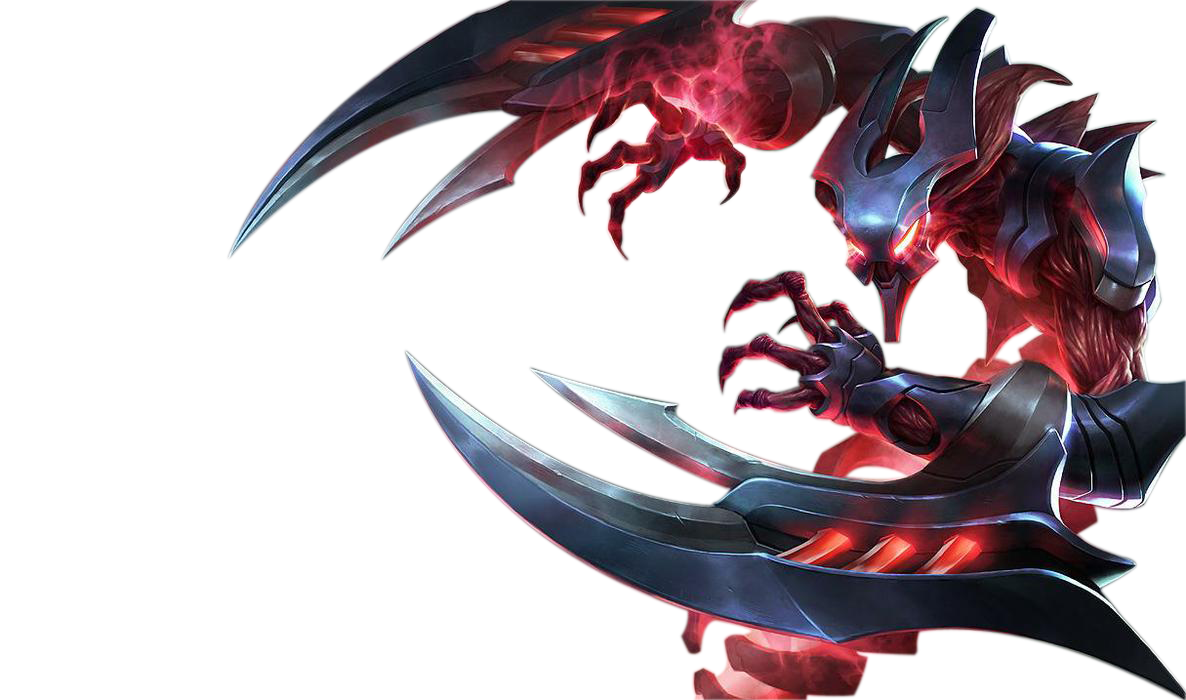
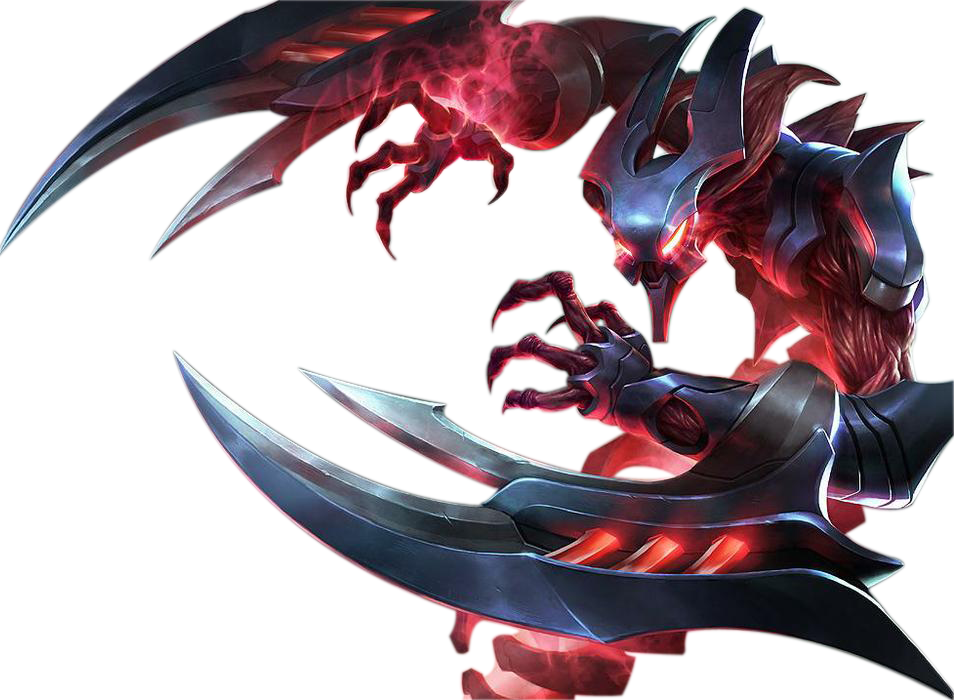
change up side images on home page to suit more screens

diff --git a/home/home.css b/home/home.css
@@ -1,11 +1,13 @@
 
 .side-img-right {
   height: 110%;
-  transform: translate(-50%, -35%) translateX(650px); 
+  transform: translate(-50%, -35%); 
+  margin-left: 650px;
 }
 .side-img-left {
   height: 90%;
-  transform: translate(-50%, -35%) translateX(-1100px); 
+  transform: translate(-50%, -35%); 
+  margin-left: -830px;
 }
 
 
